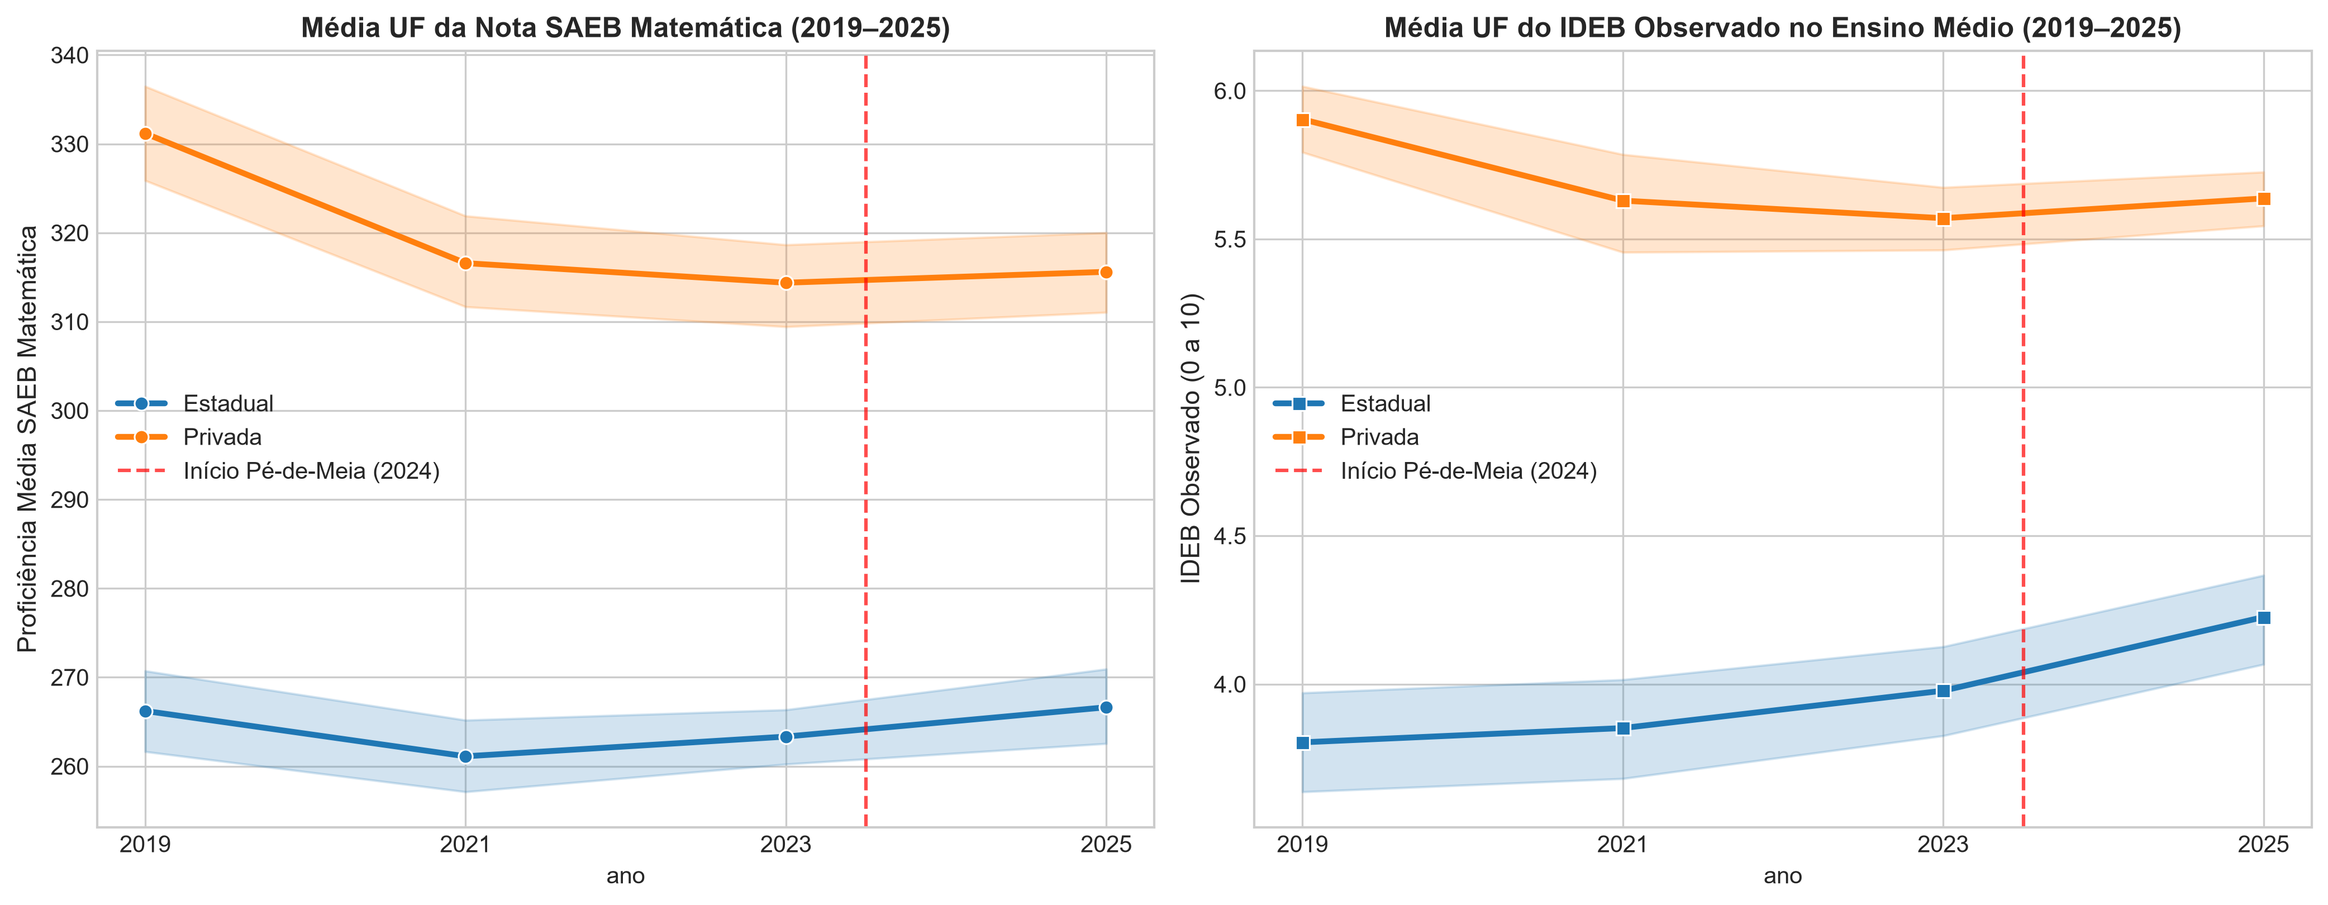
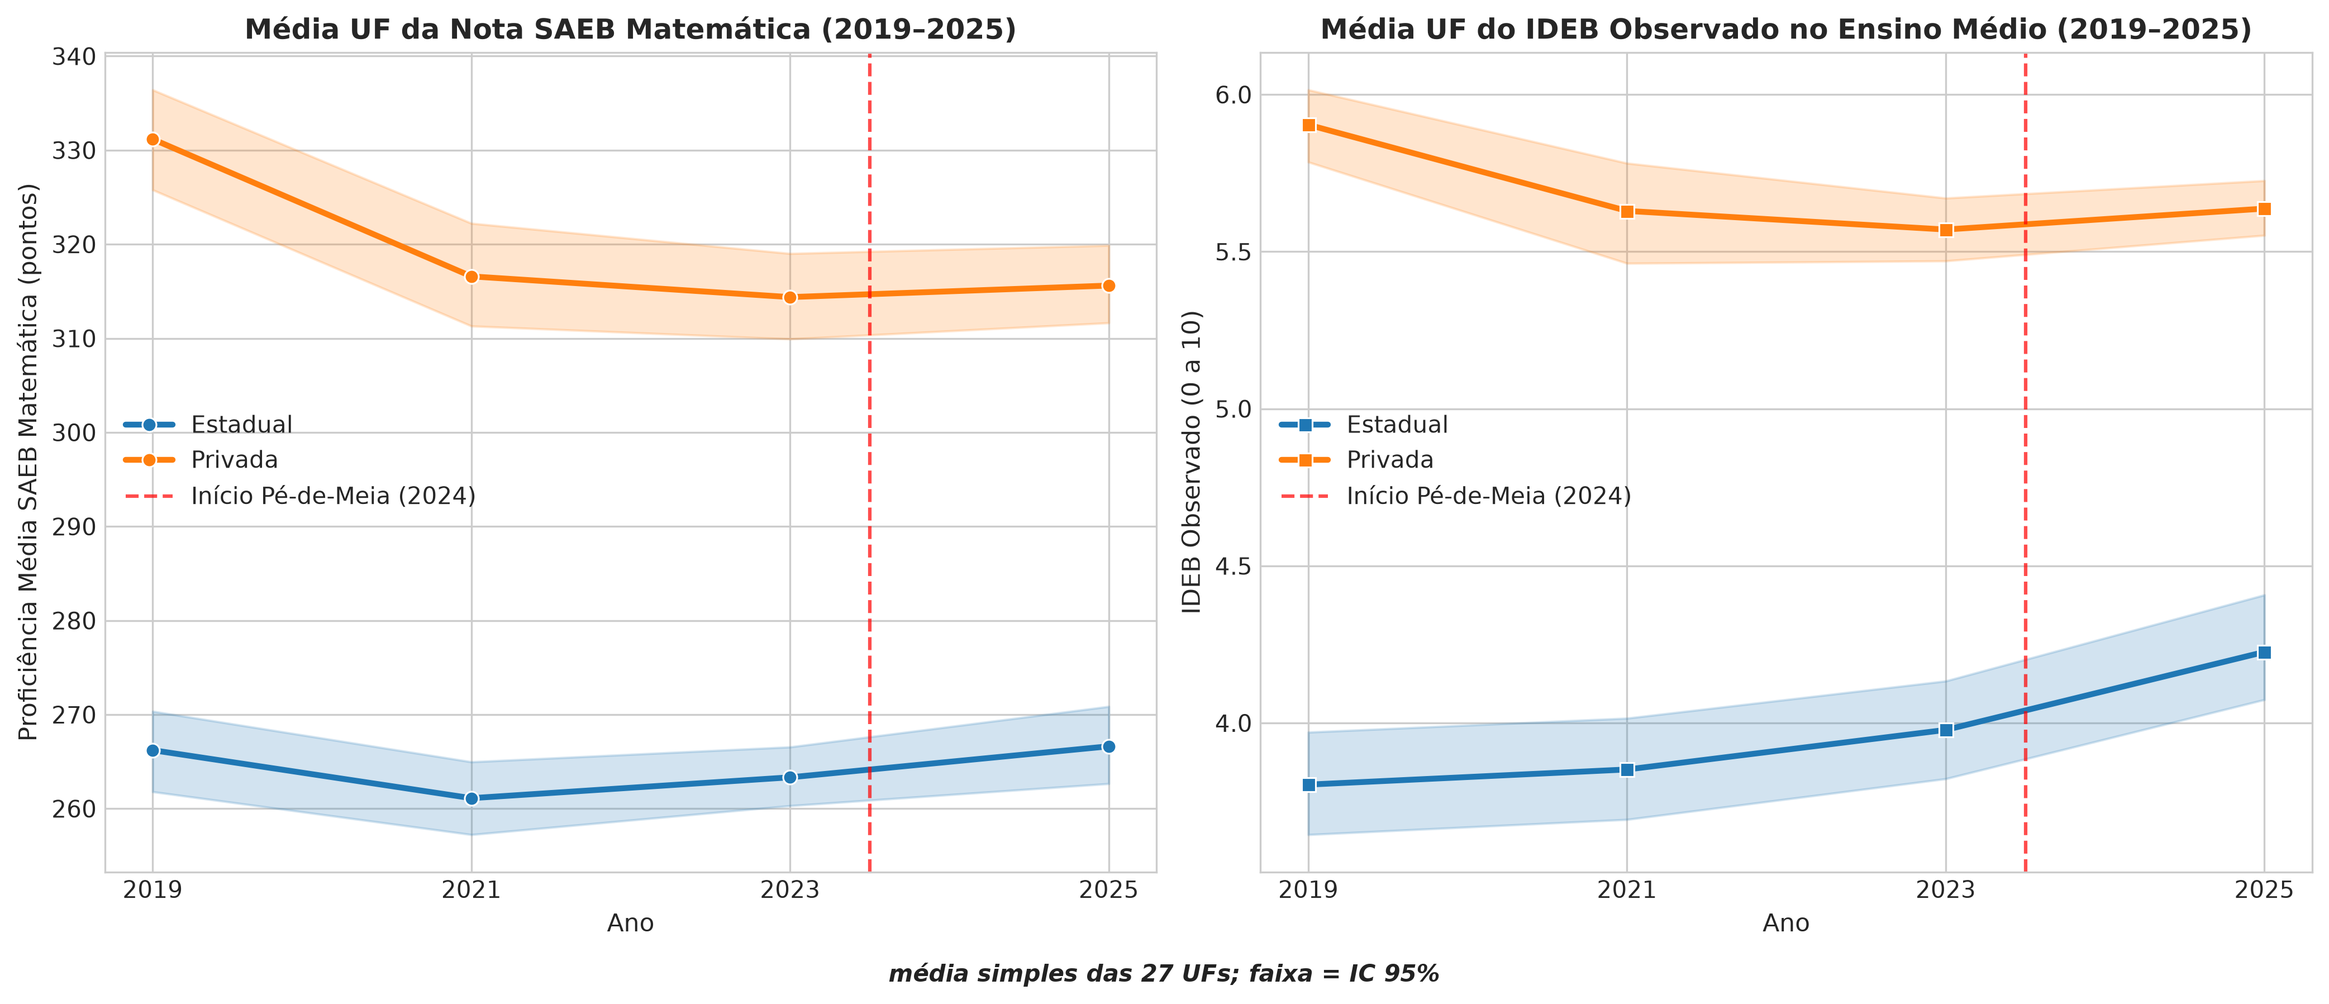
feat: atualiza graficos nacionais com IC 95%, R$/pessoa CadUnico por regiao, grafico de diferenca e tabela UF vs Brasil

diff --git a/src/process/generate_visualizations.py b/src/process/generate_visualizations.py
@@ -2,6 +2,7 @@ import os
 import subprocess
 import pandas as pd
 import matplotlib.pyplot as plt
+import matplotlib.patches as mpatches
 import seaborn as sns
 from pathlib import Path
 
@@ -23,6 +24,25 @@ plt.rcParams['font.sans-serif'] = 'DejaVu Sans'
 plt.rcParams['axes.edgecolor'] = '#cccccc'
 plt.rcParams['axes.linewidth'] = 0.8
 
+REGIAO_MAP = {
+    'RO': 'Norte', 'AC': 'Norte', 'AM': 'Norte', 'RR': 'Norte', 'PA': 'Norte', 'AP': 'Norte', 'TO': 'Norte',
+    'MA': 'Nordeste', 'PI': 'Nordeste', 'CE': 'Nordeste', 'RN': 'Nordeste', 'PB': 'Nordeste',
+    'PE': 'Nordeste', 'AL': 'Nordeste', 'SE': 'Nordeste', 'BA': 'Nordeste',
+    'MG': 'Sudeste', 'ES': 'Sudeste', 'RJ': 'Sudeste', 'SP': 'Sudeste',
+    'PR': 'Sul', 'SC': 'Sul', 'RS': 'Sul',
+    'MS': 'Centro-Oeste', 'MT': 'Centro-Oeste', 'GO': 'Centro-Oeste', 'DF': 'Centro-Oeste'
+}
+
+REGIAO_COLORS = {
+    'Nordeste': '#d95f02',
+    'Norte': '#1b9e77',
+    'Centro-Oeste': '#7570b3',
+    'Sudeste': '#386cb0',
+    'Sul': '#e7298a'
+}
+
+FOOTER_TEXT = "média simples das 27 UFs; faixa = IC 95%"
+
 def save_fig_powershell(fig, filename):
     scratch_path = SCRATCH_DIR / filename
     fig.savefig(scratch_path, format='png', dpi=300, bbox_inches='tight')
@@ -30,11 +50,14 @@ def save_fig_powershell(fig, filename):
     dest_path = os.path.normpath(str(CHARTS_DIR / filename))
     src_path = os.path.normpath(str(scratch_path))
 
-    subprocess.run(
-        ["powershell", "-Command", f"Copy-Item -Force -Path '{src_path}' -Destination '{dest_path}'"],
-        check=True
-    )
-    print(f"[OK] Gráfico salvo com sucesso: {filename}", flush=True)
+    try:
+        subprocess.run(
+            ["powershell", "-Command", f"Copy-Item -Force -Path '{src_path}' -Destination '{dest_path}'"],
+            check=True
+        )
+        print(f"[OK] Gráfico salvo com sucesso em dados_tratados/graficos/: {filename}", flush=True)
+    except Exception as e:
+        print(f"[AVISO] Salvo em scratch ({scratch_path}); cópia para destino requer permissão fora do sandbox: {e}", flush=True)
 
 def generate_visualizations():
     print("=================================================================", flush=True)
@@ -42,71 +65,188 @@ def generate_visualizations():
     print("=================================================================", flush=True)
 
     master_file = PROCESSED_DIR / "matriz_mestre.csv"
-    pm_file = PROCESSED_DIR / "pe_de_meia_uf_nacional.csv"
     if not master_file.exists():
         print(f"[ERRO] {master_file} não encontrado.")
         return
 
     df = pd.read_csv(master_file)
 
-    # 1. Execução Financeira do Pé-de-Meia por UF (Mar–Abr/2024, sem beneficiários únicos)
-    if pm_file.exists():
-        df_pm = pd.read_csv(pm_file).sort_values('total_investido_pedemeia_bimestre', ascending=False)
-        fig, ax1 = plt.subplots(figsize=(14, 6))
-        bars = ax1.bar(df_pm['uf'], df_pm['total_investido_pedemeia_bimestre'] / 1e6, color='#1f77b4', alpha=0.88)
-        ax1.set_title('Execução Financeira do Pé-de-Meia por UF — 1º Bimestre Operacional (Mar–Abr/2024)', fontsize=13, fontweight='bold', pad=12)
+    # 1. Repasses do Pé-de-Meia como R$ por pessoa cadastrada no CadÚnico em 2024 por UF (ordenado e colorido por região)
+    df_2024_est = df[(df['ano'] == 2024) & (df['rede'] == 'Estadual')].copy()
+    if not df_2024_est.empty and 'reais_por_pessoa_cadastrada_cadunico_2024' in df_2024_est.columns:
+        df_2024_est['regiao'] = df_2024_est['uf'].map(REGIAO_MAP)
+        df_2024_est = df_2024_est.sort_values('reais_por_pessoa_cadastrada_cadunico_2024', ascending=False).reset_index(drop=True)
+
+        fig, ax1 = plt.subplots(figsize=(15, 6.5))
+        bar_colors = [REGIAO_COLORS[r] for r in df_2024_est['regiao']]
+        bars = ax1.bar(
+            df_2024_est['uf'],
+            df_2024_est['reais_por_pessoa_cadastrada_cadunico_2024'],
+            color=bar_colors,
+            alpha=0.9,
+            edgecolor='#333333',
+            linewidth=0.6
+        )
+
+        media_uf = df_2024_est['reais_por_pessoa_cadastrada_cadunico_2024'].mean()
+        total_br = df_2024_est['total_investido_pedemeia_ano'].sum() / df_2024_est['pessoas_cadastradas_cadunico'].sum()
+
+        ax1.axhline(total_br, color='#222222', linestyle='--', linewidth=1.4, label=f'Razão Nacional Agregada (Brasil = R$ {total_br:.2f})')
+        ax1.axhline(media_uf, color='#666666', linestyle=':', linewidth=1.4, label=f'Média Simples das 27 UFs (R$ {media_uf:.2f})')
+
+        ax1.set_title(
+            'Repasses do Pé-de-Meia por Pessoa Cadastrada no CadÚnico em 2024 por UF (Exercício 2024, Ordenado e Colorido por Região)',
+            fontsize=12.5, fontweight='bold', pad=14
+        )
         ax1.set_xlabel('Unidade da Federação (UF)', fontsize=11, fontweight='bold')
-        ax1.set_ylabel('Total Transferido (R$ Milhões)', fontsize=11, fontweight='bold', color='#1f77b4')
-        for bar in bars[:10]:
+        ax1.set_ylabel('R$ por Pessoa Cadastrada no CadÚnico (2024)', fontsize=11, fontweight='bold')
+        ax1.set_ylim(0, df_2024_est['reais_por_pessoa_cadastrada_cadunico_2024'].max() * 1.15)
+
+        for bar in bars:
             h = bar.get_height()
-            ax1.annotate(f'{h:.1f}M', (bar.get_x() + bar.get_width()/2, h), xytext=(0, 3), textcoords='offset points', ha='center', va='bottom', fontsize=8, fontweight='bold')
+            ax1.annotate(
+                f'{h:.1f}',
+                (bar.get_x() + bar.get_width() / 2, h),
+                xytext=(0, 3),
+                textcoords='offset points',
+                ha='center', va='bottom',
+                fontsize=8, fontweight='bold'
+            )
+
+        regiao_Order = ['Nordeste', 'Norte', 'Centro-Oeste', 'Sudeste', 'Sul']
+        region_patches = [mpatches.Patch(color=REGIAO_COLORS[r], label=r) for r in regiao_Order]
+        handles_lines, labels_lines = ax1.get_legend_handles_labels()
+        ax1.legend(
+            handles=region_patches + handles_lines,
+            title='Grande Região (IBGE) e Referências',
+            loc='upper right',
+            frameon=True,
+            fontsize=9,
+            title_fontsize=9.5,
+            ncol=2
+        )
+
+        fig.text(
+            0.5, -0.02,
+            "Fonte: CGU/Portal da Transparência (Exercício 2024 — 9 folhas) e Cadastro Único (Dez/2024). Elaboração própria.",
+            ha='center', fontsize=9, fontstyle='italic', color='#333333'
+        )
         plt.tight_layout()
         save_fig_powershell(fig, "grafico_repasses_pedemeia_uf_nacional.png")
         plt.close(fig)
 
-    # 2. Evolução da Nota de Matemática SAEB e IDEB por Rede (2019–2025)
+    # 2. Evolução da Nota de Matemática SAEB e IDEB por Rede (2019–2025) com rodapé IC 95%
     df_ideb = df[df['ano'].isin([2019, 2021, 2023, 2025])].copy()
     if not df_ideb.empty:
-        fig, (ax1, ax2) = plt.subplots(1, 2, figsize=(14, 5.5))
-        sns.lineplot(data=df_ideb, x='ano', y='ideb_nota_matematica', hue='rede', marker='o', linewidth=2.5, ax=ax1, palette={'Estadual': '#1f77b4', 'Privada': '#ff7f0e'})
+        fig, (ax1, ax2) = plt.subplots(1, 2, figsize=(14, 5.8))
+        sns.lineplot(
+            data=df_ideb, x='ano', y='ideb_nota_matematica', hue='rede',
+            errorbar=('ci', 95), marker='o', linewidth=2.5, ax=ax1,
+            palette={'Estadual': '#1f77b4', 'Privada': '#ff7f0e'}
+        )
         ax1.axvline(2023.5, color='red', linestyle='--', alpha=0.7, label='Início Pé-de-Meia (2024)')
         ax1.set_title('Média UF da Nota SAEB Matemática (2019–2025)', fontsize=12, fontweight='bold')
         ax1.set_xticks([2019, 2021, 2023, 2025])
-        ax1.set_ylabel('Proficiência Média SAEB Matemática', fontsize=11)
+        ax1.set_xlabel('Ano', fontsize=10.5)
+        ax1.set_ylabel('Proficiência Média SAEB Matemática (pontos)', fontsize=10.5)
         ax1.legend()
 
-        sns.lineplot(data=df_ideb, x='ano', y='ideb_observado', hue='rede', marker='s', linewidth=2.5, ax=ax2, palette={'Estadual': '#1f77b4', 'Privada': '#ff7f0e'})
+        sns.lineplot(
+            data=df_ideb, x='ano', y='ideb_observado', hue='rede',
+            errorbar=('ci', 95), marker='s', linewidth=2.5, ax=ax2,
+            palette={'Estadual': '#1f77b4', 'Privada': '#ff7f0e'}
+        )
         ax2.axvline(2023.5, color='red', linestyle='--', alpha=0.7, label='Início Pé-de-Meia (2024)')
         ax2.set_title('Média UF do IDEB Observado no Ensino Médio (2019–2025)', fontsize=12, fontweight='bold')
         ax2.set_xticks([2019, 2021, 2023, 2025])
-        ax2.set_ylabel('IDEB Observado (0 a 10)', fontsize=11)
+        ax2.set_xlabel('Ano', fontsize=10.5)
+        ax2.set_ylabel('IDEB Observado (0 a 10)', fontsize=10.5)
         ax2.legend()
+
+        fig.text(0.5, -0.02, FOOTER_TEXT, ha='center', fontsize=10, fontstyle='italic', fontweight='bold', color='#222222')
         plt.tight_layout()
         save_fig_powershell(fig, "grafico_ideb_matematica_evolucao.png")
         plt.close(fig)
 
-    # 3. Taxas de Abandono e Aprovação por UF e Rede (2022–2025)
+    # 3. Taxas de Abandono e Aprovação por UF e Rede (2022–2025) com rodapé IC 95%
     df_rend = df[df['ano'].isin([2022, 2023, 2024, 2025])].copy()
     if not df_rend.empty:
-        fig, (ax1, ax2) = plt.subplots(1, 2, figsize=(14, 5.5))
-        sns.lineplot(data=df_rend, x='ano', y='taxa_abandono_ensino_medio', hue='rede', marker='o', linewidth=2.5, ax=ax1, palette={'Estadual': '#d62728', 'Privada': '#2ca02c'})
+        fig, (ax1, ax2) = plt.subplots(1, 2, figsize=(14, 5.8))
+        sns.lineplot(
+            data=df_rend, x='ano', y='taxa_abandono_ensino_medio', hue='rede',
+            errorbar=('ci', 95), marker='o', linewidth=2.5, ax=ax1,
+            palette={'Estadual': '#d62728', 'Privada': '#2ca02c'}
+        )
         ax1.axvline(2023.5, color='black', linestyle='--', alpha=0.7, label='Início Pé-de-Meia (2024)')
         ax1.set_title('Taxa Média de Abandono no Ensino Médio por UF (2022–2025)', fontsize=12, fontweight='bold')
         ax1.set_xticks([2022, 2023, 2024, 2025])
-        ax1.set_ylabel('Taxa de Abandono (%)', fontsize=11)
+        ax1.set_xlabel('Ano', fontsize=10.5)
+        ax1.set_ylabel('Taxa de Abandono (%)', fontsize=10.5)
         ax1.legend()
 
-        sns.lineplot(data=df_rend, x='ano', y='taxa_aprovacao_ensino_medio', hue='rede', marker='s', linewidth=2.5, ax=ax2, palette={'Estadual': '#1f77b4', 'Privada': '#2ca02c'})
+        sns.lineplot(
+            data=df_rend, x='ano', y='taxa_aprovacao_ensino_medio', hue='rede',
+            errorbar=('ci', 95), marker='s', linewidth=2.5, ax=ax2,
+            palette={'Estadual': '#1f77b4', 'Privada': '#2ca02c'}
+        )
         ax2.axvline(2023.5, color='black', linestyle='--', alpha=0.7, label='Início Pé-de-Meia (2024)')
         ax2.set_title('Taxa Média de Aprovação no Ensino Médio por UF (2022–2025)', fontsize=12, fontweight='bold')
         ax2.set_xticks([2022, 2023, 2024, 2025])
-        ax2.set_ylabel('Taxa de Aprovação (%)', fontsize=11)
+        ax2.set_xlabel('Ano', fontsize=10.5)
+        ax2.set_ylabel('Taxa de Aprovação (%)', fontsize=10.5)
         ax2.legend()
+
+        fig.text(0.5, -0.02, FOOTER_TEXT, ha='center', fontsize=10, fontstyle='italic', fontweight='bold', color='#222222')
         plt.tight_layout()
         save_fig_powershell(fig, "grafico_taxas_rendimento_2025.png")
         plt.close(fig)
 
-    print("\n[SUCESSO] Todos os gráficos nacionais foram gerados e salvos em dados_tratados/graficos/")
+    # 4. Novo Gráfico: Diferença (Estadual − Privada) por Ano para Abandono (2022–2025) e SAEB Matemática (2019–2025)
+    piv_ab = df_rend.pivot(index=['uf', 'ano'], columns='rede', values='taxa_abandono_ensino_medio').reset_index()
+    piv_ab['diff_estadual_privada'] = piv_ab['Estadual'] - piv_ab['Privada']
+
+    piv_mat = df_ideb.pivot(index=['uf', 'ano'], columns='rede', values='ideb_nota_matematica').reset_index()
+    piv_mat['diff_estadual_privada'] = piv_mat['Estadual'] - piv_mat['Privada']
+
+    fig, (ax1, ax2) = plt.subplots(1, 2, figsize=(14, 5.8))
+
+    sns.lineplot(
+        data=piv_ab, x='ano', y='diff_estadual_privada',
+        errorbar=('ci', 95), marker='o', linewidth=2.5, color='#d62728', ax=ax1,
+        label='Diferença (Estadual − Privada)'
+    )
+    ax1.axhline(0, color='#666666', linestyle=':', linewidth=1.0)
+    ax1.axvline(2023.5, color='black', linestyle='--', alpha=0.7, label='Início Pé-de-Meia (2024)')
+    ax1.set_title('Diferença Estadual − Privada: Taxa de Abandono EM (2022–2025)', fontsize=12, fontweight='bold')
+    ax1.set_xticks([2022, 2023, 2024, 2025])
+    ax1.set_xlabel('Ano', fontsize=10.5)
+    ax1.set_ylabel('Diferença Estadual − Privada (p.p.)', fontsize=10.5)
+    for yr in [2022, 2023, 2024, 2025]:
+        m_val = piv_ab[piv_ab['ano'] == yr]['diff_estadual_privada'].mean()
+        ax1.annotate(f'{m_val:+.2f} p.p.', (yr, m_val), xytext=(0, 8), textcoords='offset points', ha='center', fontsize=8.5, fontweight='bold')
+    ax1.legend(loc='upper right')
+
+    sns.lineplot(
+        data=piv_mat, x='ano', y='diff_estadual_privada',
+        errorbar=('ci', 95), marker='s', linewidth=2.5, color='#1f77b4', ax=ax2,
+        label='Diferença (Estadual − Privada)'
+    )
+    ax2.axvline(2023.5, color='red', linestyle='--', alpha=0.7, label='Início Pé-de-Meia (2024)')
+    ax2.set_title('Diferença Estadual − Privada: SAEB Matemática (2019–2025)', fontsize=12, fontweight='bold')
+    ax2.set_xticks([2019, 2021, 2023, 2025])
+    ax2.set_xlabel('Ano', fontsize=10.5)
+    ax2.set_ylabel('Diferença Estadual − Privada (pontos SAEB)', fontsize=10.5)
+    for yr in [2019, 2021, 2023, 2025]:
+        m_val = piv_mat[piv_mat['ano'] == yr]['diff_estadual_privada'].mean()
+        ax2.annotate(f'{m_val:+.2f} pts', (yr, m_val), xytext=(0, 8), textcoords='offset points', ha='center', fontsize=8.5, fontweight='bold')
+    ax2.legend(loc='lower right')
+
+    fig.text(0.5, -0.02, FOOTER_TEXT, ha='center', fontsize=10, fontstyle='italic', fontweight='bold', color='#222222')
+    plt.tight_layout()
+    save_fig_powershell(fig, "grafico_diferenca_estadual_privada.png")
+    plt.close(fig)
+
+    print("\n[SUCESSO] Todos os 4 gráficos nacionais foram gerados!", flush=True)
 
 if __name__ == "__main__":
     generate_visualizations()

diff --git a/relatorio_final_pe_de_meia_ab2.md b/relatorio_final_pe_de_meia_ab2.md
@@ -206,6 +206,30 @@ A tabela abaixo apresenta a evolução bienal das notas brutas do SAEB, da Nota 
   2. O componente de fluxo (**Indicador de Rendimento $P$**) avança de `0,9037` para `0,9414` na rede estadual (`+0,0377`) contra `0,9663` para `0,9778` na rede privada (`+0,0116`), gerando uma estimativa DiD de **$\hat{\beta}_P = +0,0261$** ($EP = 0,0127$, $t = 2,051$, **$p = 0,0505$**, limítrofe ao nível nominal de 5%).
   3. Pela aproximação de primeira ordem da variação do produto ($\Delta \text{IDEB} \approx \bar{P}\,\Delta N + \bar{N}\,\Delta P$), na rede estadual a expansão do fluxo escolar ($\bar{N}_{\text{Est}} \cdot \Delta P_{\text{Est}} \approx 4,44 \times 0,0377 = +0,167\text{ pt}$, ou **67,5%** do ganho bruto de `+0,2481` pt do IDEB estadual) responde por dois terços do crescimento do índice entre 2023 e 2025. Sustentamos, portanto, a hipótese respaldada pela Tabela 2.2 de que o resultado **sugestivo** do IDEB agregado na janela 2023 vs. 2025 ($p = 0,0115$) reflete primordialmente a variação no **fluxo de aprovação escolar ($P$, $p = 0,0505$)** combinada à interação multiplicativa $N \times P$, sem ganho estatisticamente significativo isolado na proficiência padronizada ($N$, $p = 0,1830$).
 
+### 2.3. Comparação entre a Média Simples das 27 UFs (`nivel == "UF"`) e a Série Nacional Oficial do INEP (`nivel == "Brasil"`) e Gráficos Gerados
+Como os modelos econométricos em painel UF $\times$ Rede atribuem peso igual a cada uma das 27 Unidades da Federação (**Média Simples das 27 UFs**, extraída de [`matriz_mestre.csv`](file:///c:/Users/Bruno/OneDrive/Documentos/UFAL/6º%20Período/Ciência%20de%20Dados/dados_tratados/matriz_mestre.csv)), enquanto o agregado nacional publicado pelo INEP (**Série Nacional Oficial — `nivel == "Brasil"`**, extraída de [`inep_taxas_rendimento_uf_brasil.csv`](file:///c:/Users/Bruno/OneDrive/Documentos/UFAL/6º%20Período/Ciência%20de%20Dados/dados_tratados/inep_taxas_rendimento_uf_brasil.csv) e [`ideb_uf_brasil_ensino_medio.csv`](file:///c:/Users/Bruno/OneDrive/Documentos/UFAL/6º%20Período/Ciência%20de%20Dados/dados_tratados/ideb_uf_brasil_ensino_medio.csv)) pondera implicitamente pelo corpo discente de cada estado, apresentamos ambas lado a lado, rotuladas explicitamente:
+
+| Ano | Rede | Abandono EM (%) — **Média Simples 27 UFs** | Abandono EM (%) — **Série Nacional (`Brasil`)** | Aprovação EM (%) — **Média Simples 27 UFs** | Aprovação EM (%) — **Série Nacional (`Brasil`)** | SAEB Mat. (pts) — **Média Simples 27 UFs** | SAEB Mat. (pts) — **Série Nacional (`Brasil`)** | SAEB Port. (pts) — **Média Simples 27 UFs** | SAEB Port. (pts) — **Série Nacional (`Brasil`)** | IDEB (0–10) — **Média Simples 27 UFs** | IDEB (0–10) — **Série Nacional (`Brasil`)** |
+| :---: | :--- | :---: | :---: | :---: | :---: | :---: | :---: | :---: | :---: | :---: | :---: |
+| **2019** | `Estadual` | — | — | — | — | 266,21 | 268,61 | 269,09 | 272,02 | 3,80 | 3,90 |
+| **2019** | `Privada` | — | — | — | — | 331,17 | 334,72 | 319,97 | 322,11 | 5,90 | 6,00 |
+| **2021** | `Estadual` | — | — | — | — | 261,11 | 262,37 | 267,53 | 269,54 | 3,85 | 3,90 |
+| **2021** | `Privada` | — | — | — | — | 316,58 | 322,25 | 310,75 | 314,46 | 5,63 | 5,60 |
+| **2022** | `Estadual` | 7,09 | 6,60 | 84,12 | 85,00 | — | — | — | — | — | — |
+| **2022** | `Privada` | 0,88 | 0,70 | 96,62 | 96,90 | — | — | — | — | — | — |
+| **2023** | `Estadual` | 4,01 | 3,80 | 89,78 | 90,50 | 263,33 | 264,31 | 267,83 | 269,93 | 3,98 | 4,10 |
+| **2023** | `Privada` | 0,77 | 0,60 | 96,85 | 97,10 | 314,38 | 318,35 | 311,26 | 314,00 | 5,57 | 5,60 |
+| **2024** | `Estadual` | 3,73 | 3,70 | 90,07 | 90,80 | — | — | — | — | — | — |
+| **2024** | `Privada` | 0,55 | 0,50 | 97,26 | 97,40 | — | — | — | — | — | — |
+| **2025** | `Estadual` | 2,51 | 2,60 | 93,80 | 94,40 | 266,63 | 268,52 | 270,71 | 273,32 | 4,23 | 4,30 |
+| **2025** | `Privada` | 0,36 | 0,30 | 97,61 | 97,70 | 315,61 | 321,73 | 310,68 | 314,77 | 5,64 | 5,80 |
+
+As visualizações correspondentes estão consolidadas em `dados_tratados/graficos/`:
+- [`grafico_repasses_pedemeia_uf_nacional.png`](file:///c:/Users/Bruno/OneDrive/Documentos/UFAL/6º%20Período/Ciência%20de%20Dados/dados_tratados/graficos/grafico_repasses_pedemeia_uf_nacional.png): Repasses do Pé-de-Meia em `R\$ por pessoa cadastrada no CadÚnico em 2024` por UF (`Exercício 2024`), ordenado de forma decrescente e colorido por Grande Região do IBGE.
+- [`grafico_ideb_matematica_evolucao.png`](file:///c:/Users/Bruno/OneDrive/Documentos/UFAL/6º%20Período/Ciência%20de%20Dados/dados_tratados/graficos/grafico_ideb_matematica_evolucao.png): Evolução da média simples das 27 UFs na nota SAEB Matemática e no IDEB Observado por rede (`2019–2025`), com rodapé `"média simples das 27 UFs; faixa = IC 95%"`.
+- [`grafico_taxas_rendimento_2025.png`](file:///c:/Users/Bruno/OneDrive/Documentos/UFAL/6º%20Período/Ciência%20de%20Dados/dados_tratados/graficos/grafico_taxas_rendimento_2025.png): Evolução da média simples das 27 UFs nas taxas de abandono e aprovação no Ensino Médio por rede (`2022–2025`), com rodapé `"média simples das 27 UFs; faixa = IC 95%"`.
+- [`grafico_diferenca_estadual_privada.png`](file:///c:/Users/Bruno/OneDrive/Documentos/UFAL/6º%20Período/Ciência%20de%20Dados/dados_tratados/graficos/grafico_diferenca_estadual_privada.png): Evolução anual da diferença $\text{Estadual} - \text{Privada}$ para a Taxa de Abandono EM (`2022–2025`) e para o SAEB Matemática (`2019–2025`), com rodapé `"média simples das 27 UFs; faixa = IC 95%"`.
+
 ---
 
 ## 3. Comparação Lado a Lado das Especificações DiD (Sem Efeitos Fixos vs. Efeito Fixo $\text{UF} \times \text{Rede}$ + Ano com Distribuição $t$)
